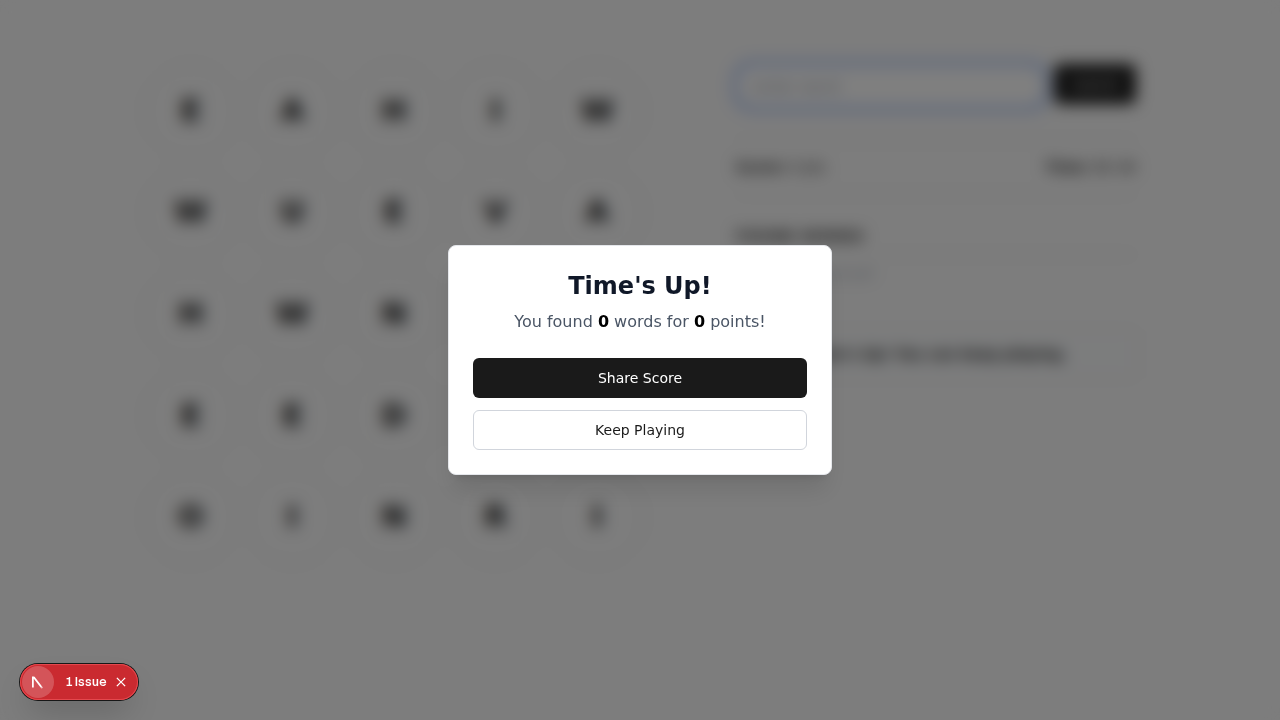
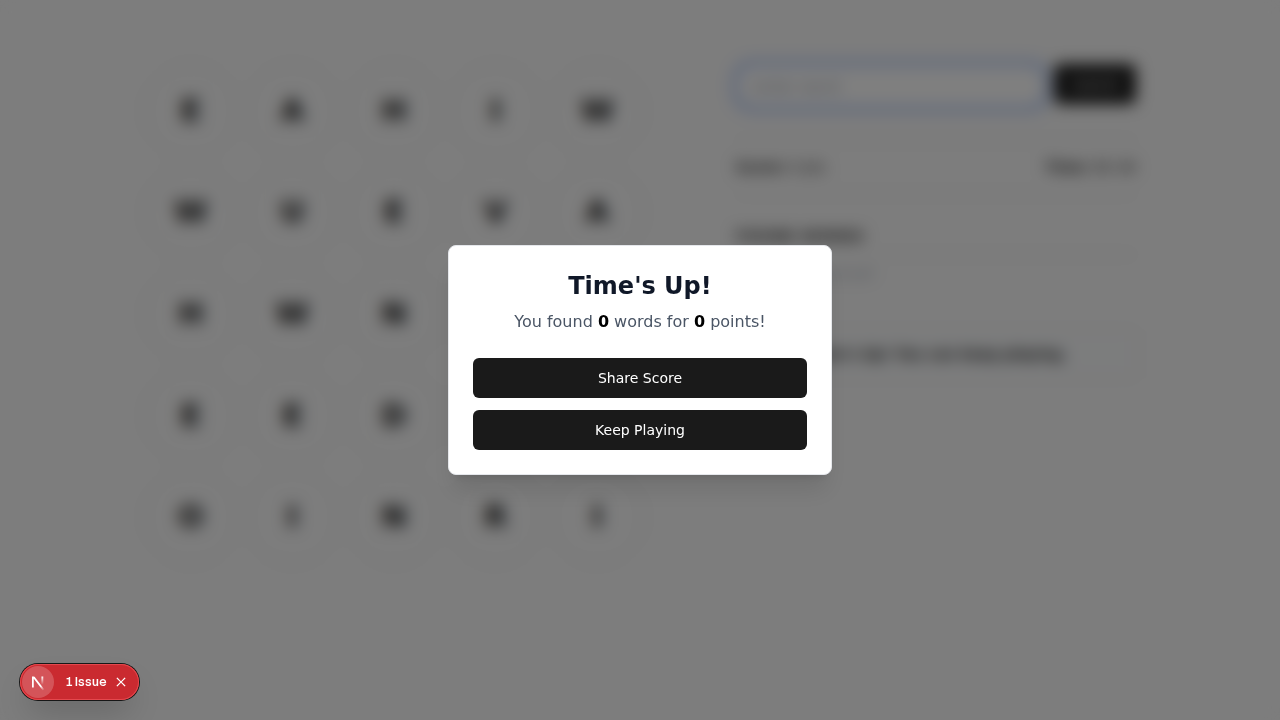
feat: implement Time's Up modal with share and continue options
- Add `TimeUpModal` component
- Update `Timer` to trigger immediate time check on load
- Integrate modal into `WordGrid` with keep playing and share functionality
- Implement `navigator.share` with fallback to clipboard
- Style modal buttons consistently

Changed region(s): [[0.3438, 0.55, 0.6562, 0.6417]]

diff --git a/components/play/word-grid.tsx b/components/play/word-grid.tsx
@@ -140,9 +140,26 @@ export function WordGrid({ board, boardDate }: WordGridProps) {
     setShowTimeUpModal(true);
   }
 
-  function handleShare() {
+  async function handleShare() {
     const text = `I found ${wordsWithinTime.length} words for ${scoreWithinTime} points in Daily Wordgrid!`;
-    navigator.clipboard.writeText(text);
+    const url = window.location.href;
+    const shareData = {
+      title: 'Daily Wordgrid',
+      text,
+      url,
+    };
+
+    if (navigator.share) {
+      try {
+        await navigator.share(shareData);
+        return;
+      } catch (err) {
+        console.error('Error sharing:', err);
+      }
+    }
+
+    // Fallback to clipboard
+    navigator.clipboard.writeText(`${text} ${url}`);
     toast.success("Score copied to clipboard!");
   }
 

diff --git a/components/play/minimal/TimeUpModal.tsx b/components/play/minimal/TimeUpModal.tsx
@@ -25,7 +25,7 @@ export function TimeUpModal({ score, wordsFound, onShare, onKeepPlaying, isOpen 
           <Button onClick={onShare} className="w-full bg-[#1A1A1A] text-white hover:bg-[#333333]">
             Share Score
           </Button>
-          <Button onClick={onKeepPlaying} variant="outline" className="w-full border-gray-300 hover:bg-gray-50">
+          <Button onClick={onKeepPlaying} className="w-full bg-[#1A1A1A] text-white hover:bg-[#333333]">
             Keep Playing
           </Button>
         </div>
